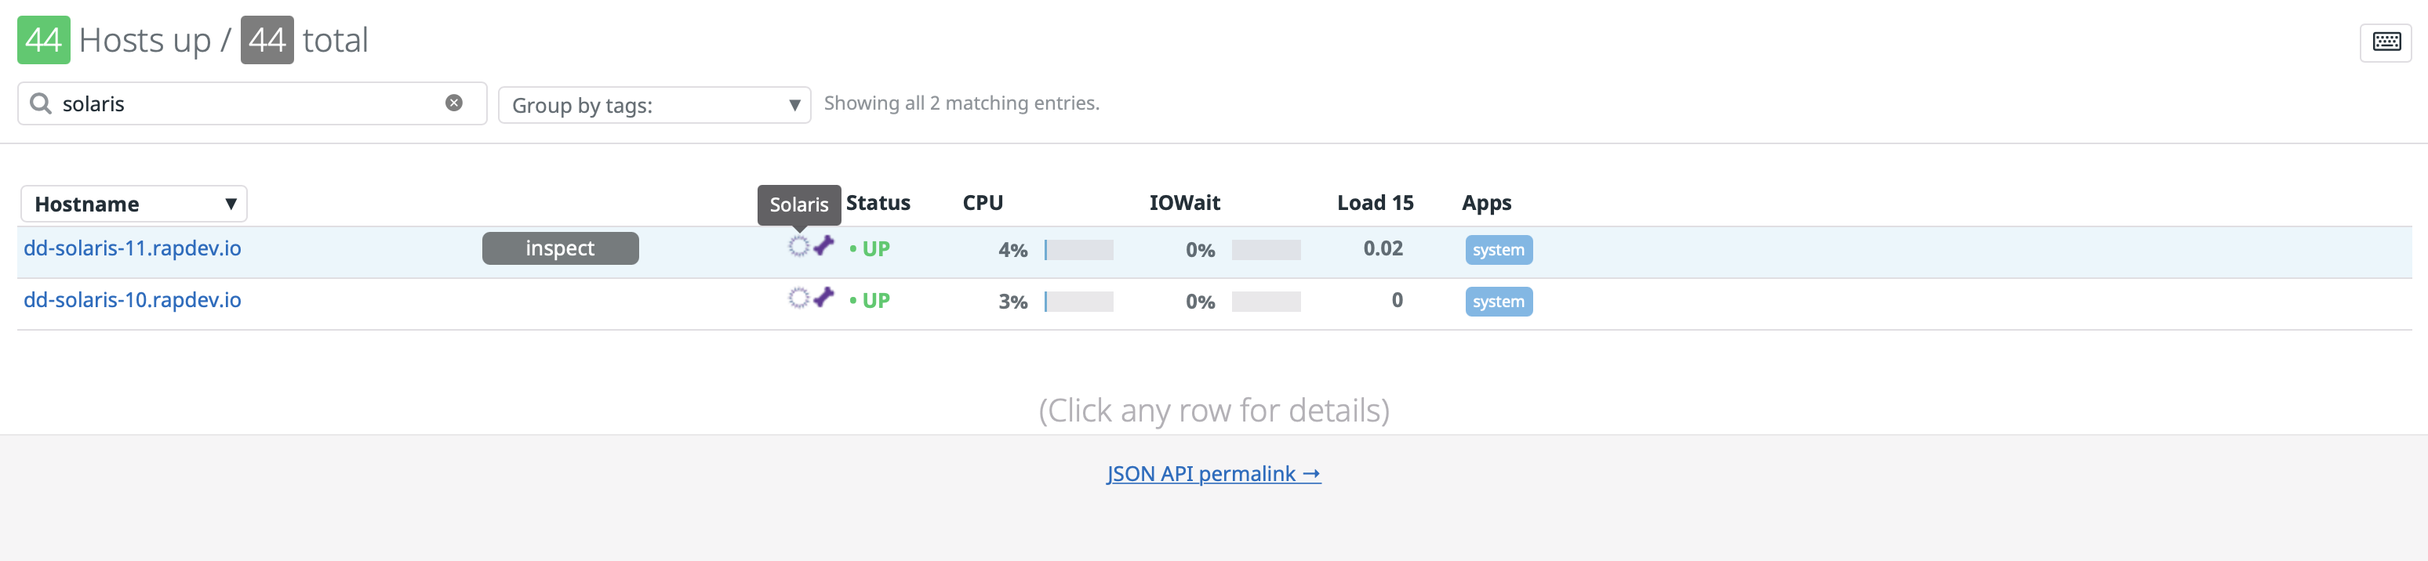
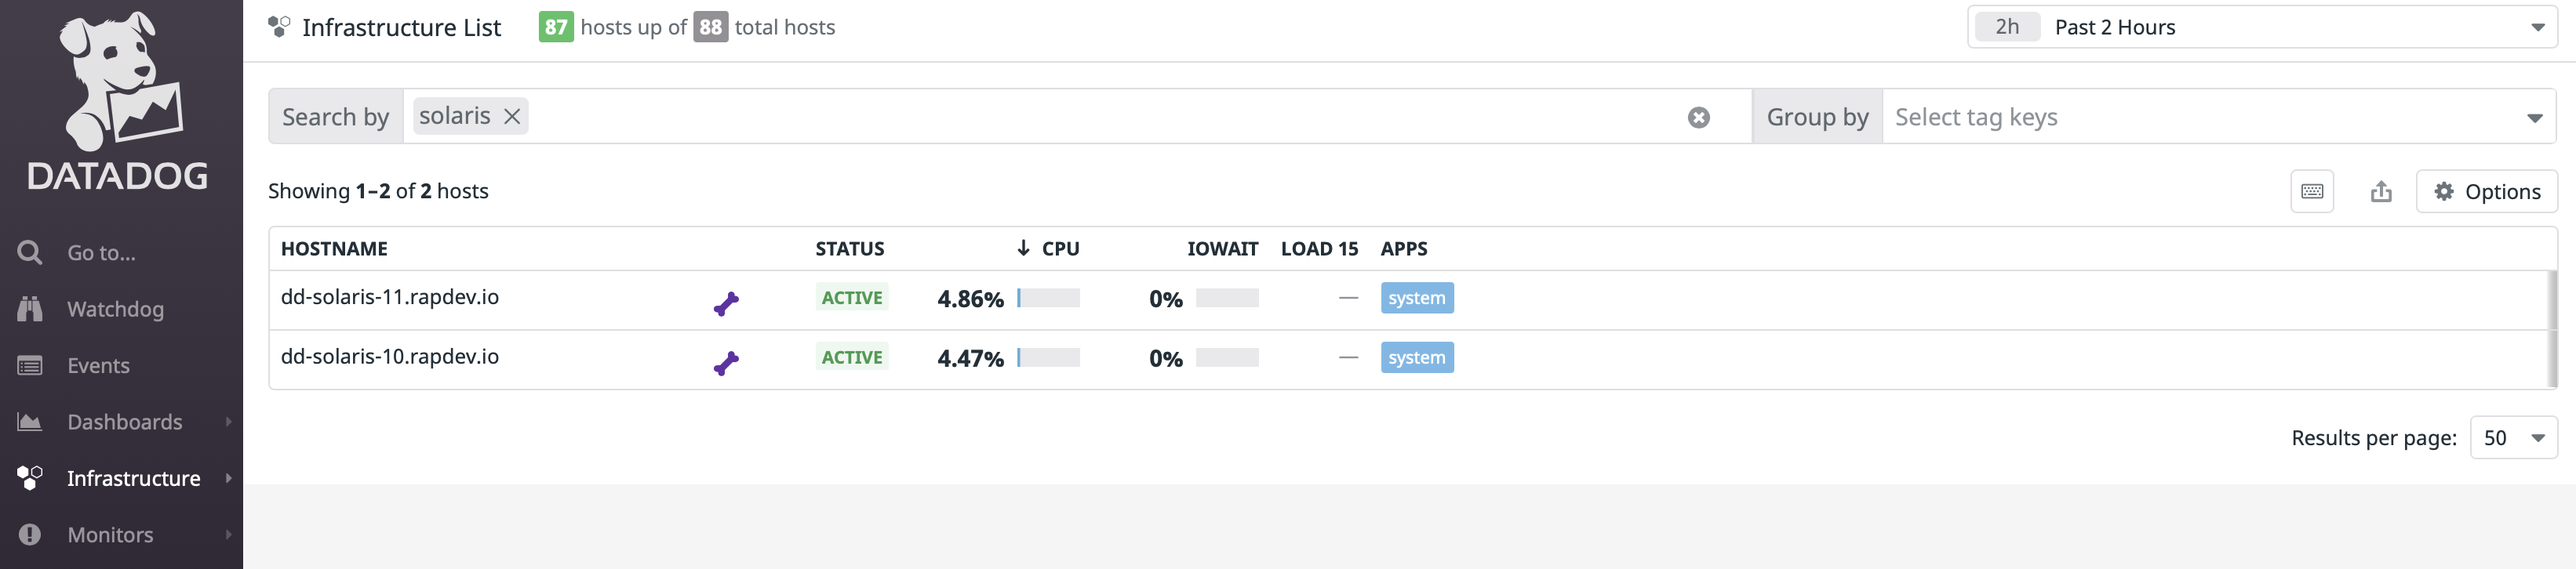
RapDev Solaris Agent Release v1.2.0 (#144)
* Updated README and images for release v1.1.1

* Revert display_name in manifest.json

* Adding support for Datadog 'gohai' metadata; updated README, CHANGELOG and images.

* Fix formatting issue with yaml blocks

* Update rapdev_solaris_agent/README.md

* Update CHANGELOG dates

diff --git a/rapdev_solaris_agent/README.md b/rapdev_solaris_agent/README.md
@@ -11,56 +11,115 @@ The Solaris Agent uses the same URLs and ports as the native agents. The Solaris
 
 ![Screenshot1](images/1.png)
 
+![Screenshot2](images/2.png)
+
 ![Screenshot3](images/3.png)
 
 ## Setup
 
-1. Install the Solaris Agent using the Solaris Image Packaging System.
-```
-pkgadd -d http://rapdev-files.s3.amazonaws.com/solaris/DatadogAgent-1.1.0.pkg
-```
-
-2. Install OpenCSW curl. If you have a version of curl that supports HTTPs already on your system, determine the filesystem path to the curl binary and add it to the `/etc/datadog/agent.yml` file in the next step. It's strongly recommended to use OpenCSW curl if possible. Older versions of curl may have outdated SSL libraries.
-```
+1. A current installation of curl is required on each Solaris Agent host system. The Solaris Agent was built and tested with curl from the [OpenCSW](https://www.opencsw.org/about/) project.
+```sh
 pkgadd -d http://get.opencsw.org/now
 /opt/csw/bin/pkgutil -U
-/opt/csw/bin/pkgutil -y -i curl 
+/opt/csw/bin/pkgutil -y -i curl
 ```
 
-3. Copy `/etc/datadog/agent.yml.example` to `/etc/datadog/agent.yml` and update the Agent configuration parameters as required for installation. When using OpenCSW curl, only the parameter `api_key` needs to be updated for basic Agent functionality.
-```
-cp /etc/datadog/agent.yml.example /etc/datadog/agent.yml
-vi /etc/datadog/agent.yml
+2. Install the Solaris Agent using the Solaris Image Packaging System. 
+```sh
+pkgadd -d http://rapdev-files.s3.amazonaws.com/solaris/DatadogAgent-1.2.0.pkg
 ```
 
-3. Enable the datadog-agent service.
+3. If you are upgrading an existing Solaris Agent installation, first remove the current Solaris Agent package. The Solaris Agent configuration and log files will be retained.
+```sh
+pkgrm DatadogAgent
+pkgadd -d http://rapdev-files.s3.amazonaws.com/solaris/DatadogAgent-1.2.0.pkg
 ```
+
+4. Copy `/etc/datadog/agent.yml.example` to `/etc/datadog/agent.yml` and update the Solaris Agent configuration settings in the `/etc/datadog/agent.yml` file.
+
+    ```sh
+    cp /etc/datadog/agent.yml.example /etc/datadog/agent.yml
+    vi /etc/datadog/agent.yml
+    ```
+
+    i. (Required) Set the `api_key` value to your Datadog's API key string.
+    ```yaml
+    api_key: <datadog-api-key>
+    ```
+
+    ii. (Optional) Uncomment and set the `hostname` setting if you do not want to rely on dynamic system lookup of the hostname.
+    ```yaml
+    hostname: your-hostname.your-domain
+    ```
+
+    iii. (Optional) Uncomment and set the `tags` setting to specify tags to include on all metrics and logs.
+    ```yaml
+    tags:
+      - environment:dev
+    #  - <TAG_KEY1>:<TAG_VALUE1>
+    #  - <TAG_KEY2>:<TAG_VALUE2>
+    ```
+
+    iv. (Optional) Uncomment the `logs:` section in `/etc/datadog/agent.yml` and add a configuration for desired log tail. The `dd-agent` user requires read access to all files configured for log tails.
+    ```yaml
+    logs:
+      - type: file
+        path: /var/adm/messages
+        service: datadog
+        source: agent
+    ```
+
+    v. (Optional) If your Datadog instance is located in the EU instead of the US, uncomment the following settings:
+    ```yaml
+    dd_url: https://api.datadoghq.eu
+    dd_log_url: https://http-intake.logs.datadoghq.eu
+    ```
+
+    vi. (Optional) If your host system requires a proxy to communicate with Datadog's APIs, uncomment and update the following settings:
+    ```yaml
+    proxy_host: my-proxy.com
+    proxy_port: 3128
+    proxy_user: username
+    proxy_pass: password
+    ```
+
+    vii. (Optional) If the host is using an installation of curl other than `/opt/csw/bin/curl`, uncomment and update the following setting. The version of curl specified here should be current enough to support updated versions of TLS.
+    ```yaml
+    curl_bin: /opt/csw/bin/curl
+    ```
+
+    viii. (Optional) The Solaris Agent includes a recent version of the [CA extract](https://curl.se/docs/caextract.html) PEM file located at `/opt/datadog-agent/ssl/cacert.pem`. Change this setting to your organization's cacert.pem bundle when using an SSL traffic inspection proxy for egress internet access. The `dd-agent` user should have directory and file access permissions on the cacert.pem file as well as the parent directory to read the CA Bundle.
+    ```yaml
+    cacert: /etc/ssl/cacert.pem
+    ```
+
+    ix. (Optional) If there are issues with the supplied CA Bundle or the custom CA Bundle from your organization, SSL validation can be disabled by setting the following value in the configuration file. However, this setting is not recommended as it will disable SSL validation of the Datadog API hosts.
+    ```yaml
+    skip_ssl_validation: yes
+    ```
+
+5. Enable the datadog-agent service.
+```sh
 svcadm enable datadog-agent
-svcadm restart datadog-agent
 ```
 
-4. Verify the Solaris Agent is running.
-```
+6. Verify the Solaris Agent is running.
+```sh
+svcs datadog-agent
 ps -ef | grep datadog-agent
 tail -f /var/log/datadog/agent.log
 ```
 
-5. (Optional) Configure log file tails in `/etc/datadog/agent.yml`. Uncomment the `logs:` section in `/etc/datadog/agent.yml` and add configuration for each file tail.
-```
-# cat /etc/datadog/agent.yml
-# {...}
-logs:
-  - type: file
-    path: "/var/adm/messages"
-    service: "datadog"
-    source: "agent"
+7. If you need to restart the Solaris Agent, use the following command:
+```sh
+svcadm restart datadog-agent
 ```
 
-6. (Optional) Modify `/etc/logadm.conf` if the default settings for log rotation do not meet your organization requirements.
-```
+8. (Optional) Modify `/etc/logadm.conf` if the default settings for log rotation do not meet your organization requirements.
+```sh
 cat /etc/logadm.conf
-# ...
-/var/log/datadog/agent.log -C 10 -c -s 100m
+# {...}
+/var/log/datadog/agent.log -C 10 -c -s 10m
 ```
 
 ## Support

diff --git a/rapdev_solaris_agent/CHANGELOG.md b/rapdev_solaris_agent/CHANGELOG.md
@@ -1,5 +1,19 @@
 # CHANGELOG - RapDev Solaris Agent
 
+## 1.2.0 / 2021-06-11
+
+* [Added] support for new "Host Info" metadata in Datadog Infrastructure List.
+
+## 1.1.1 / 2021-06-03
+
+* [Fixed] reduced agent.log max file size from 100m to 10m in logadm.
+* [Fixed] changed default "host_metadata_interval" to 1200 seconds.
+* [Fixed] incorrect handling of "skip_ssl_validation" configuration setting.
+* [Fixed] changed default dd_url to https://api.datadoghq.com.
+* [Fixed] changed default user to 'dd-agent' to match Datadog agent.
+* [Added] support for Certificate Authority bundle (cacert.pem).
+* [Added] support for runtime parameters to configure log severity and user.
+
 ## 1.1.0 / 2021-03-16
 
 * [Fixed] resolved issue of host-tags no populating in Datadog App.
